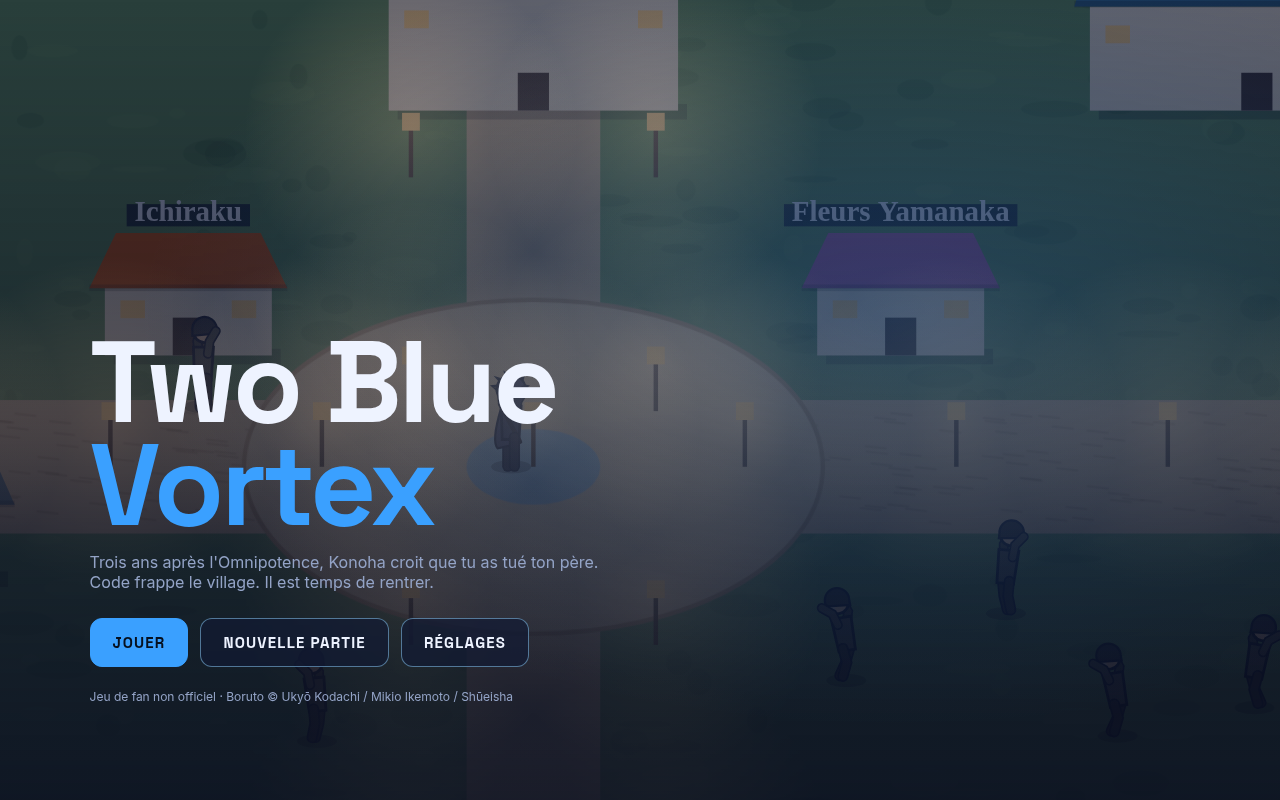
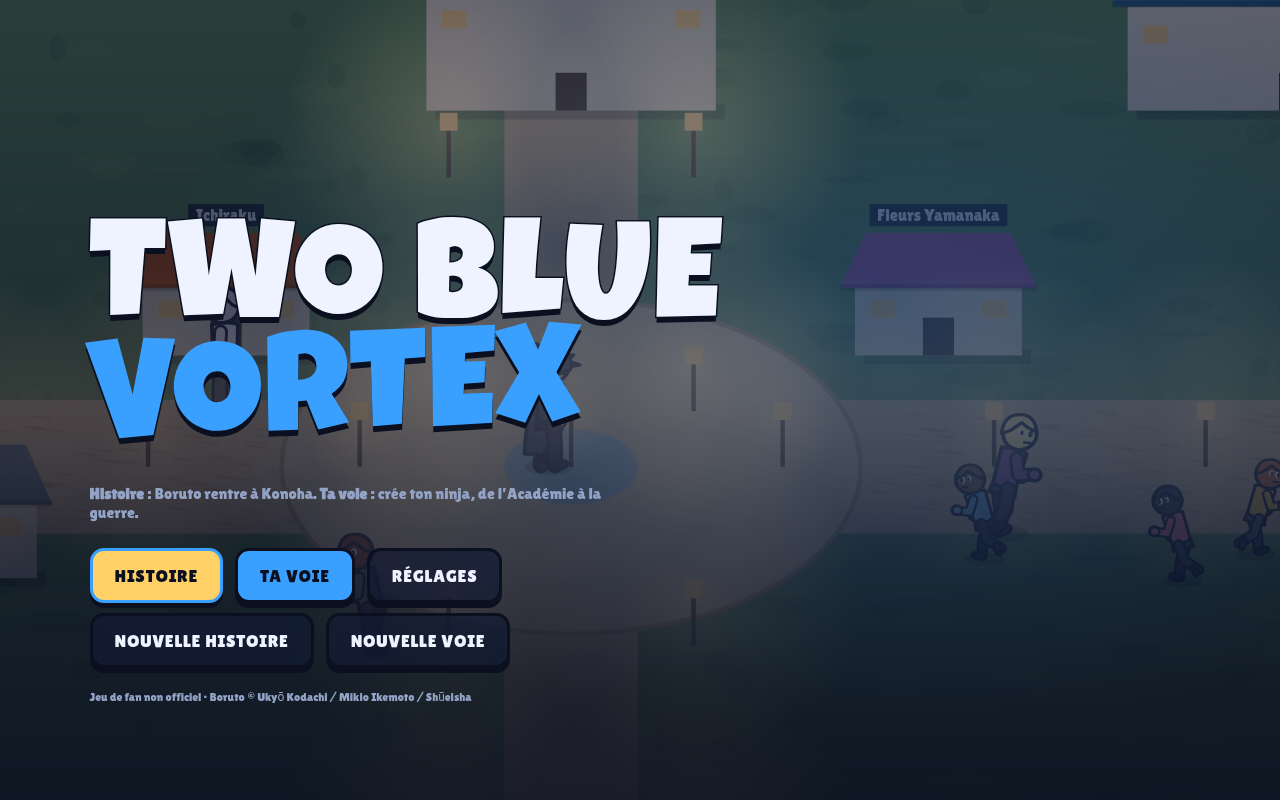
v0.2: Ta voie RPG mode, rig/VFX overhaul, Bijudama, chapter 2, fixes

diff --git a/index.html b/index.html
@@ -455,11 +455,11 @@ const World = {
       case 'house': { const { x, y, w, h } = p; g.fillStyle = 'rgba(0,0,0,.25)'; g.fillRect(x - w / 2 + 8, y - 6, w, 14); g.fillStyle = '#e8dcc4'; g.fillRect(x - w / 2, y - h * 0.55, w, h * 0.55); g.fillStyle = '#3b2a1e'; g.fillRect(x - 14, y - 34, 28, 34);
         g.fillStyle = night ? '#ffcf7a' : '#6f8fa8'; g.fillRect(x - w / 2 + 14, y - h * 0.45, 22, 16); g.fillRect(x + w / 2 - 36, y - h * 0.45, 22, 16);
         g.fillStyle = p.roof; g.beginPath(); g.moveTo(x - w / 2 - 14, y - h * 0.55); g.lineTo(x - w / 2 + 10, y - h); g.lineTo(x + w / 2 - 10, y - h); g.lineTo(x + w / 2 + 14, y - h * 0.55); g.closePath(); g.fill(); g.fillStyle = 'rgba(0,0,0,.2)'; g.fillRect(x - w / 2 - 14, y - h * 0.58, w + 28, 6);
-        if (p.label) { g.font = '700 13px var(--f-title), system-ui'; g.textAlign = 'center'; g.fillStyle = 'rgba(11,16,32,.75)'; const tw = g.measureText(p.label).width + 14; g.fillRect(x - tw / 2, y - h - 26, tw, 20); g.fillStyle = '#eef3ff'; g.fillText(p.label, x, y - h - 11); }
+        if (p.label) { g.font = "400 15px 'TBV Ext', 'Lilita One', system-ui"; g.textAlign = 'center'; g.fillStyle = 'rgba(11,16,32,.75)'; const tw = g.measureText(p.label).width + 14; g.fillRect(x - tw / 2, y - h - 26, tw, 20); g.fillStyle = '#eef3ff'; g.fillText(p.label, x, y - h - 11); }
         if (p.label === 'Tour du Hokage') { g.fillStyle = '#eef3ff'; g.beginPath(); g.arc(x, y - h * 0.78, 22, 0, TAU); g.fill(); g.fillStyle = '#c0392b'; g.font = '700 26px serif'; g.fillText('火', x, y - h * 0.78 + 9); } break; }
       case 'rock': { g.fillStyle = '#8a7b6b'; g.beginPath(); g.moveTo(0, 0); g.lineTo(W, 0); g.lineTo(W, 300); for (let x = W; x >= 0; x -= 80) g.lineTo(x, 300 + Math.sin(x * 0.03) * 22 + 20); g.closePath(); g.fill(); g.fillStyle = '#7a6b5c';
         for (let i = 0; i < 8; i++) { const fx = 960 + i * 170, fy = 170; g.fillStyle = i === 7 ? '#9a8a7a' : '#a5947f'; g.beginPath(); g.ellipse(fx, fy, 56, 72, 0, 0, TAU); g.fill(); g.fillStyle = '#5a4d40'; g.fillRect(fx - 26, fy - 10, 16, 6); g.fillRect(fx + 10, fy - 10, 16, 6); g.fillRect(fx - 12, fy + 26, 24, 5); if (i === 6) { g.fillStyle = '#5a4d40'; for (let k = -1; k <= 1; k += 2) for (let j = 0; j < 3; j++) g.fillRect(fx + k * 30, fy + j * 9, k * 16, 3); } }
-        g.font = '700 14px var(--f-title), system-ui'; g.fillStyle = 'rgba(238,243,255,.7)'; g.textAlign = 'center'; g.fillText('Le Huitième n’a pas encore de visage.', 960 + 7 * 170, 270); break; }
+        g.font = "400 15px 'TBV Ext', 'Lilita One', system-ui"; g.fillStyle = 'rgba(238,243,255,.7)'; g.textAlign = 'center'; g.fillText('Le Huitième n’a pas encore de visage.', 960 + 7 * 170, 270); break; }
       case 'wall': g.fillStyle = '#a3896a'; g.fillRect(0, WALL_Y, 1520, 40); g.fillRect(1680, WALL_Y, W - 1680, 40); g.fillStyle = '#7d6a52'; for (let x = 0; x < W; x += 40) if (x < 1520 || x > 1680) g.fillRect(x, WALL_Y, 3, 40); break;
       case 'gate': g.fillStyle = '#2e7d4a'; g.fillRect(1500, WALL_Y - 90, 20, 130); g.fillRect(1680, WALL_Y - 90, 20, 130); g.fillStyle = '#3b9a5d'; g.fillRect(1490, WALL_Y - 100, 220, 26); g.fillStyle = '#eef3ff'; g.font = '700 18px serif'; g.textAlign = 'center'; g.fillText('阿 吽', 1600, WALL_Y - 81); break;
       case 'lantern': g.fillStyle = '#3b2a1e'; g.fillRect(p.x - 2, p.y - 46, 4, 46); g.fillStyle = night ? '#ffcf7a' : '#e8b24a'; g.fillRect(p.x - 8, p.y - 58, 16, 16); break;

diff --git a/src/40_world.js b/src/40_world.js
@@ -62,11 +62,11 @@ const World = {
       case 'house': { const { x, y, w, h } = p; g.fillStyle = 'rgba(0,0,0,.25)'; g.fillRect(x - w / 2 + 8, y - 6, w, 14); g.fillStyle = '#e8dcc4'; g.fillRect(x - w / 2, y - h * 0.55, w, h * 0.55); g.fillStyle = '#3b2a1e'; g.fillRect(x - 14, y - 34, 28, 34);
         g.fillStyle = night ? '#ffcf7a' : '#6f8fa8'; g.fillRect(x - w / 2 + 14, y - h * 0.45, 22, 16); g.fillRect(x + w / 2 - 36, y - h * 0.45, 22, 16);
         g.fillStyle = p.roof; g.beginPath(); g.moveTo(x - w / 2 - 14, y - h * 0.55); g.lineTo(x - w / 2 + 10, y - h); g.lineTo(x + w / 2 - 10, y - h); g.lineTo(x + w / 2 + 14, y - h * 0.55); g.closePath(); g.fill(); g.fillStyle = 'rgba(0,0,0,.2)'; g.fillRect(x - w / 2 - 14, y - h * 0.58, w + 28, 6);
-        if (p.label) { g.font = '700 13px var(--f-title), system-ui'; g.textAlign = 'center'; g.fillStyle = 'rgba(11,16,32,.75)'; const tw = g.measureText(p.label).width + 14; g.fillRect(x - tw / 2, y - h - 26, tw, 20); g.fillStyle = '#eef3ff'; g.fillText(p.label, x, y - h - 11); }
+        if (p.label) { g.font = "400 15px 'TBV Ext', 'Lilita One', system-ui"; g.textAlign = 'center'; g.fillStyle = 'rgba(11,16,32,.75)'; const tw = g.measureText(p.label).width + 14; g.fillRect(x - tw / 2, y - h - 26, tw, 20); g.fillStyle = '#eef3ff'; g.fillText(p.label, x, y - h - 11); }
         if (p.label === 'Tour du Hokage') { g.fillStyle = '#eef3ff'; g.beginPath(); g.arc(x, y - h * 0.78, 22, 0, TAU); g.fill(); g.fillStyle = '#c0392b'; g.font = '700 26px serif'; g.fillText('火', x, y - h * 0.78 + 9); } break; }
       case 'rock': { g.fillStyle = '#8a7b6b'; g.beginPath(); g.moveTo(0, 0); g.lineTo(W, 0); g.lineTo(W, 300); for (let x = W; x >= 0; x -= 80) g.lineTo(x, 300 + Math.sin(x * 0.03) * 22 + 20); g.closePath(); g.fill(); g.fillStyle = '#7a6b5c';
         for (let i = 0; i < 8; i++) { const fx = 960 + i * 170, fy = 170; g.fillStyle = i === 7 ? '#9a8a7a' : '#a5947f'; g.beginPath(); g.ellipse(fx, fy, 56, 72, 0, 0, TAU); g.fill(); g.fillStyle = '#5a4d40'; g.fillRect(fx - 26, fy - 10, 16, 6); g.fillRect(fx + 10, fy - 10, 16, 6); g.fillRect(fx - 12, fy + 26, 24, 5); if (i === 6) { g.fillStyle = '#5a4d40'; for (let k = -1; k <= 1; k += 2) for (let j = 0; j < 3; j++) g.fillRect(fx + k * 30, fy + j * 9, k * 16, 3); } }
-        g.font = '700 14px var(--f-title), system-ui'; g.fillStyle = 'rgba(238,243,255,.7)'; g.textAlign = 'center'; g.fillText('Le Huitième n’a pas encore de visage.', 960 + 7 * 170, 270); break; }
+        g.font = "400 15px 'TBV Ext', 'Lilita One', system-ui"; g.fillStyle = 'rgba(238,243,255,.7)'; g.textAlign = 'center'; g.fillText('Le Huitième n’a pas encore de visage.', 960 + 7 * 170, 270); break; }
       case 'wall': g.fillStyle = '#a3896a'; g.fillRect(0, WALL_Y, 1520, 40); g.fillRect(1680, WALL_Y, W - 1680, 40); g.fillStyle = '#7d6a52'; for (let x = 0; x < W; x += 40) if (x < 1520 || x > 1680) g.fillRect(x, WALL_Y, 3, 40); break;
       case 'gate': g.fillStyle = '#2e7d4a'; g.fillRect(1500, WALL_Y - 90, 20, 130); g.fillRect(1680, WALL_Y - 90, 20, 130); g.fillStyle = '#3b9a5d'; g.fillRect(1490, WALL_Y - 100, 220, 26); g.fillStyle = '#eef3ff'; g.font = '700 18px serif'; g.textAlign = 'center'; g.fillText('阿 吽', 1600, WALL_Y - 81); break;
       case 'lantern': g.fillStyle = '#3b2a1e'; g.fillRect(p.x - 2, p.y - 46, 4, 46); g.fillStyle = night ? '#ffcf7a' : '#e8b24a'; g.fillRect(p.x - 8, p.y - 58, 16, 16); break;

diff --git a/PATCH_NOTES.md b/PATCH_NOTES.md
@@ -1,5 +1,32 @@
 # Two Blue Vortex — Notes de version
 
+## v0.2 — « Ta voie » (20/10/2026)
+**Animations & VFX (priorité)**
+- Nouveau rig plus grand : idle, course (ninja run), chaîne M1 avec anticipation/smear/follow-through, incantation avec mudras dessinés, esquive, coup reçu, K.O. Squash & stretch, orientation cohérente.
+- Vrais bijū : Kurama (9 queues) et Shukaku, queues qui ondulent, tête, gueule, rugissement.
+- Séquence Bijūdama complète : rassemblement de particules, sphère sombre/claire compressée, avalée, tirée, onde de choc, dôme. Zone rouge au sol avant l'impact.
+- VFX refaits : Rasengan, Chidori, Kirin (ciel noir + dragon), Katon, Suiton (dragon), Fūton, Doton, marques du Karma, Uzuhiko, techniques de clan.
+- Nouvelle action Ultime (R / Y / 極), jauge qui se charge en combat.
+
+**Typo & feel (recherche Fortnite/Epic, voir RESEARCH.md)**
+- Lilita One (style Burbank) + Luckiest Guy pour les dégâts, police de secours pour ū/ō.
+- Vie en vert, rouge réservé au danger. Chiffres de dégâts qui « pop », notes qui montent le long d'une chaîne, sons superposés, boutons rebondissants.
+
+**Mode RPG « Ta voie »**
+- Création : nom, clan (8) ou hasard, coiffure, couleurs. Élément tiré au sort à la naissance.
+- Intro de clan, Académie (3 leçons), duel du rival, diplôme Genin, équipe de 2 coéquipiers + jōnin avec liens, test des clochettes.
+- Missions D→S au bureau, rangs Genin → Chūnin → Jōnin.
+- Arc original : rival, organisation criminelle, examen Chūnin (choix), Shukaku (choix selon le lien), guerre, fin qui dépend de tes choix.
+
+**Histoire**
+- Jura devient un vrai boss. Nouveau chapitre 2 « Kurama » : Kawaki, Himawari, combat contre Kurama avec Sarada.
+
+**Corrections**
+- Les mannequins restent dans le cercle. Les PNJ ne sont plus tous dessinés en déserteur ; villageois variés.
+- Dialogues qui se relançaient en boucle avec E. Cinématique de naissance qui bloquait le héros.
+- Bras qui pointaient vers le haut. Textes canvas en police par défaut.
+- Équilibrage : PV des boss augmentés (Jura ×1.6, Kawaki ×1.5, Kurama ×1.4).
+
 ## v0.1 — « Tranche verticale » (20/10/2026)
 - Prologue + Chapitre 1 (Fugitif) : Grimes sur la place, Embrasement à l'étal, Code, Sarada au belvédère, 2 zones Shinju, Jura.
 - Combat : chaîne M1 en 3 coups, esquive (i-frames), 4 techniques (Rasengan, Shiden, Rappa, Kage Bunshin) avec mudras dessinés.
